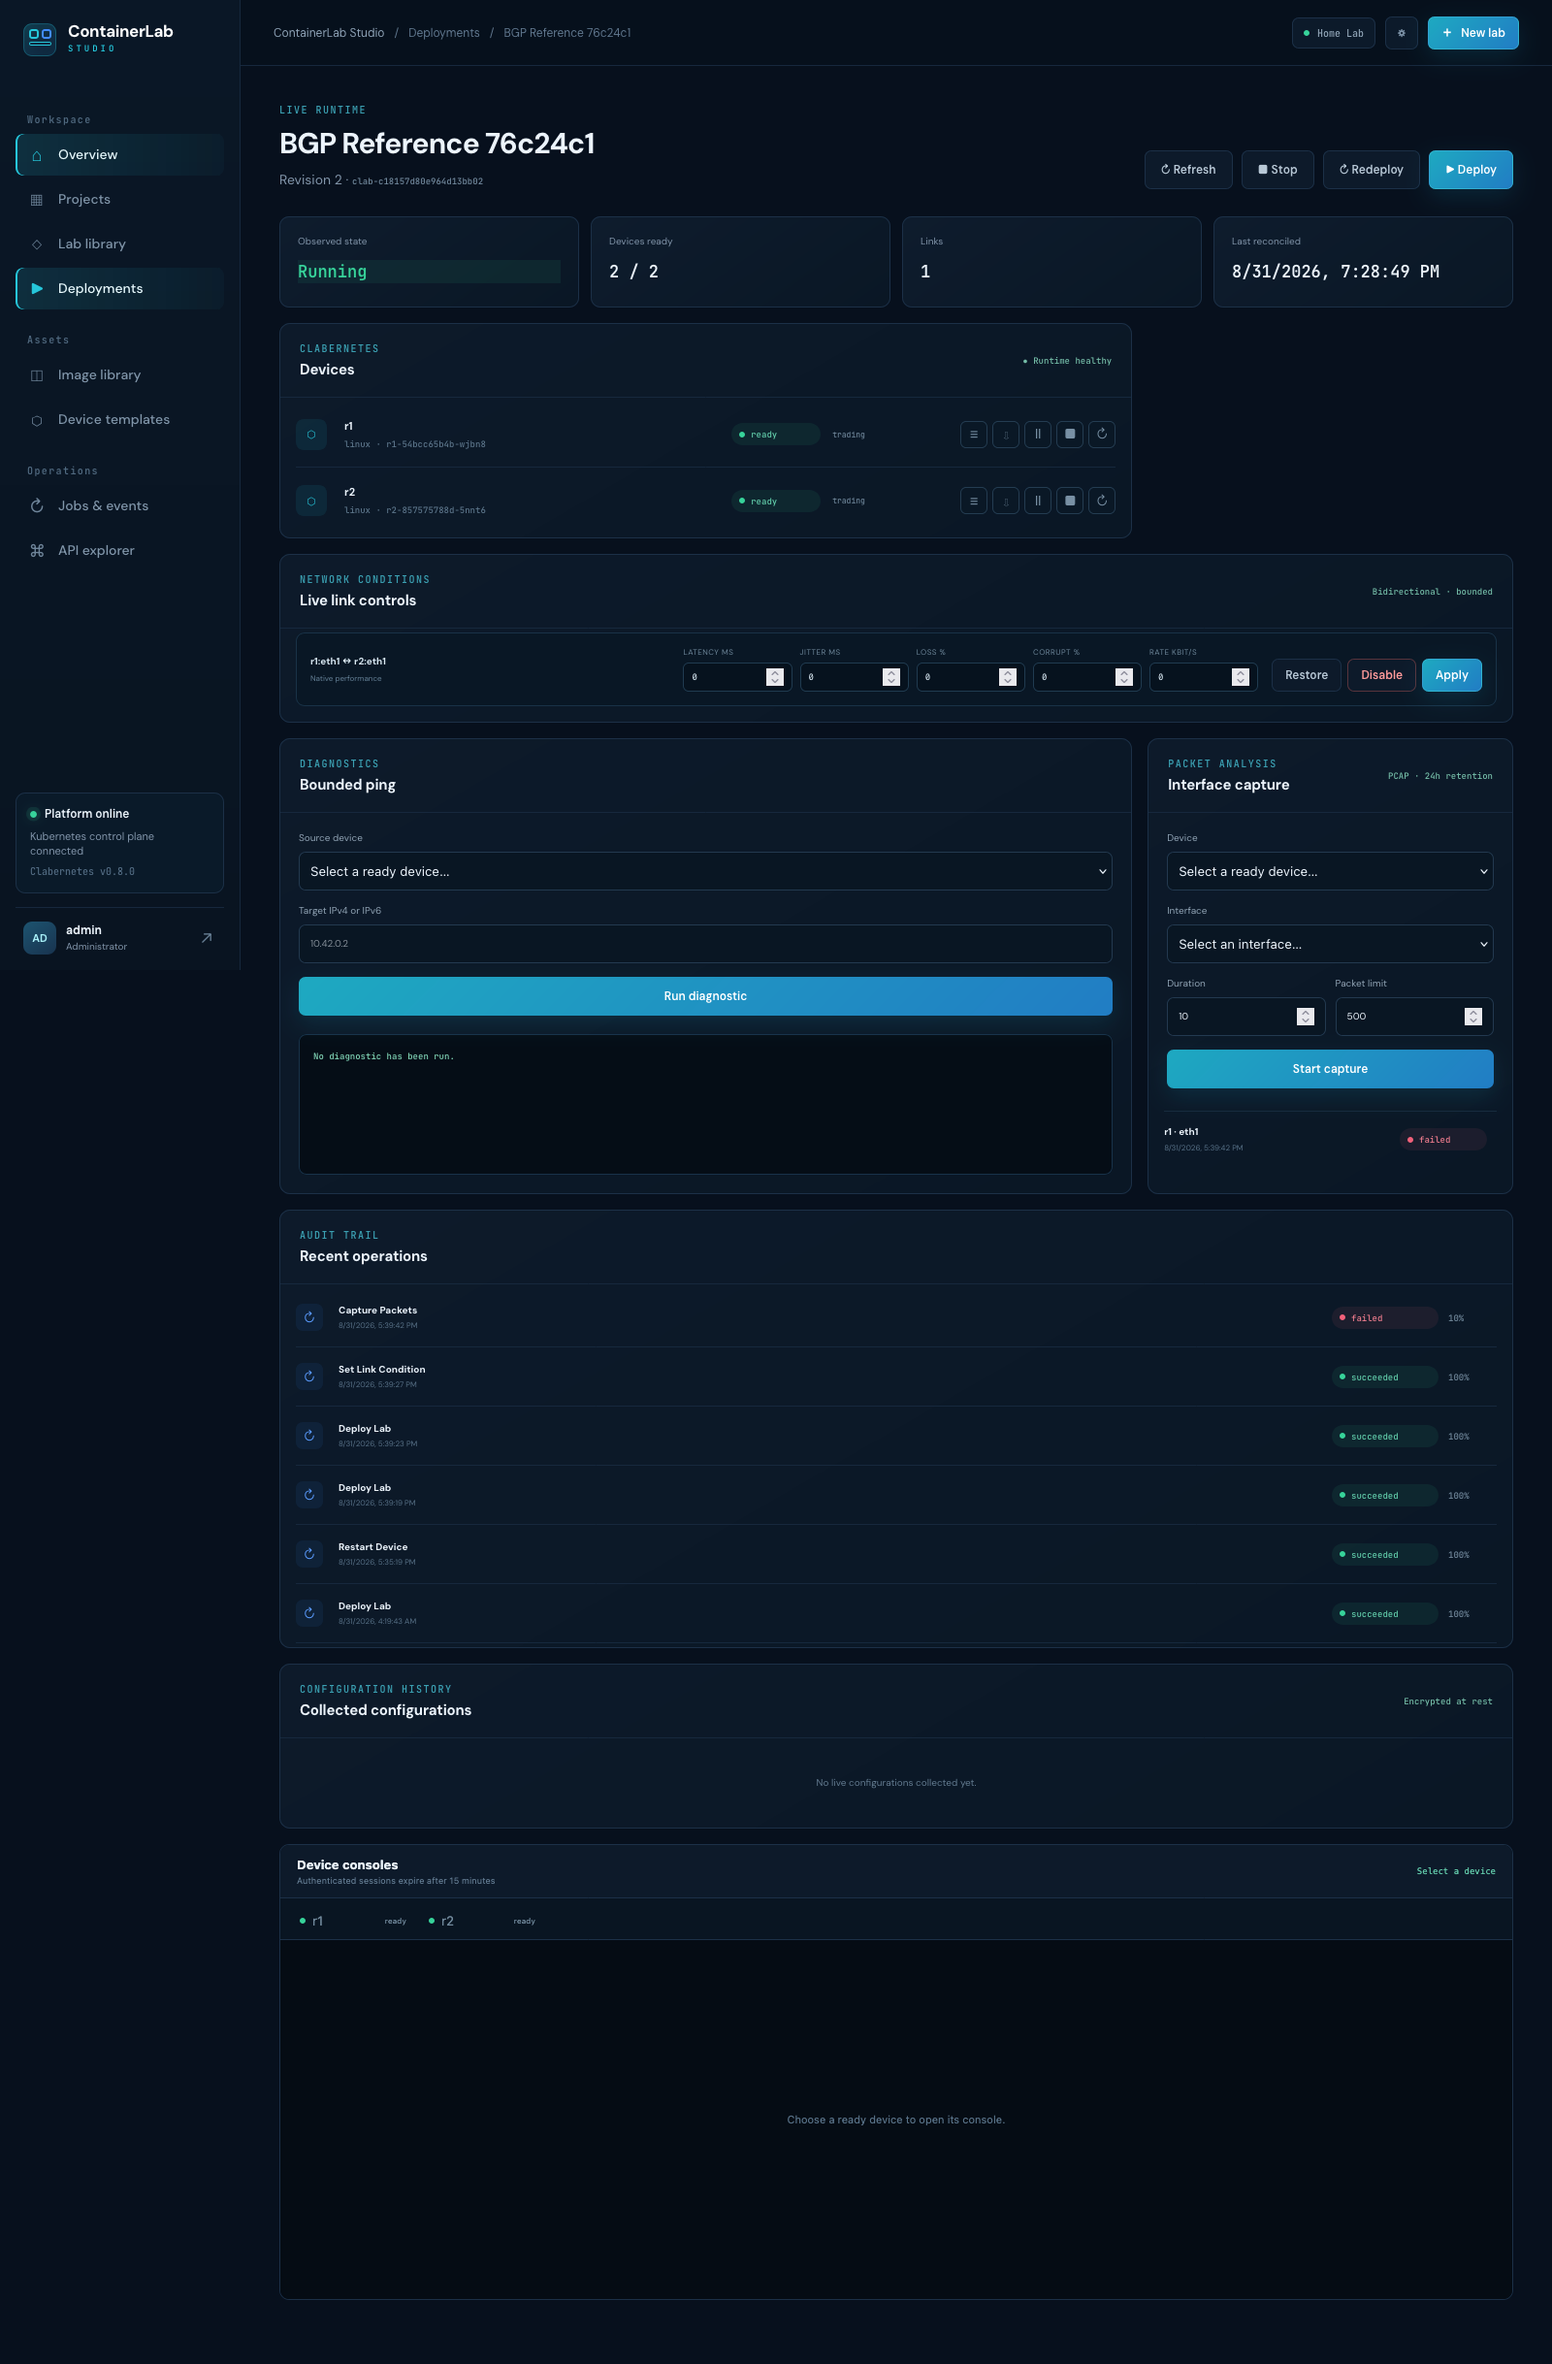
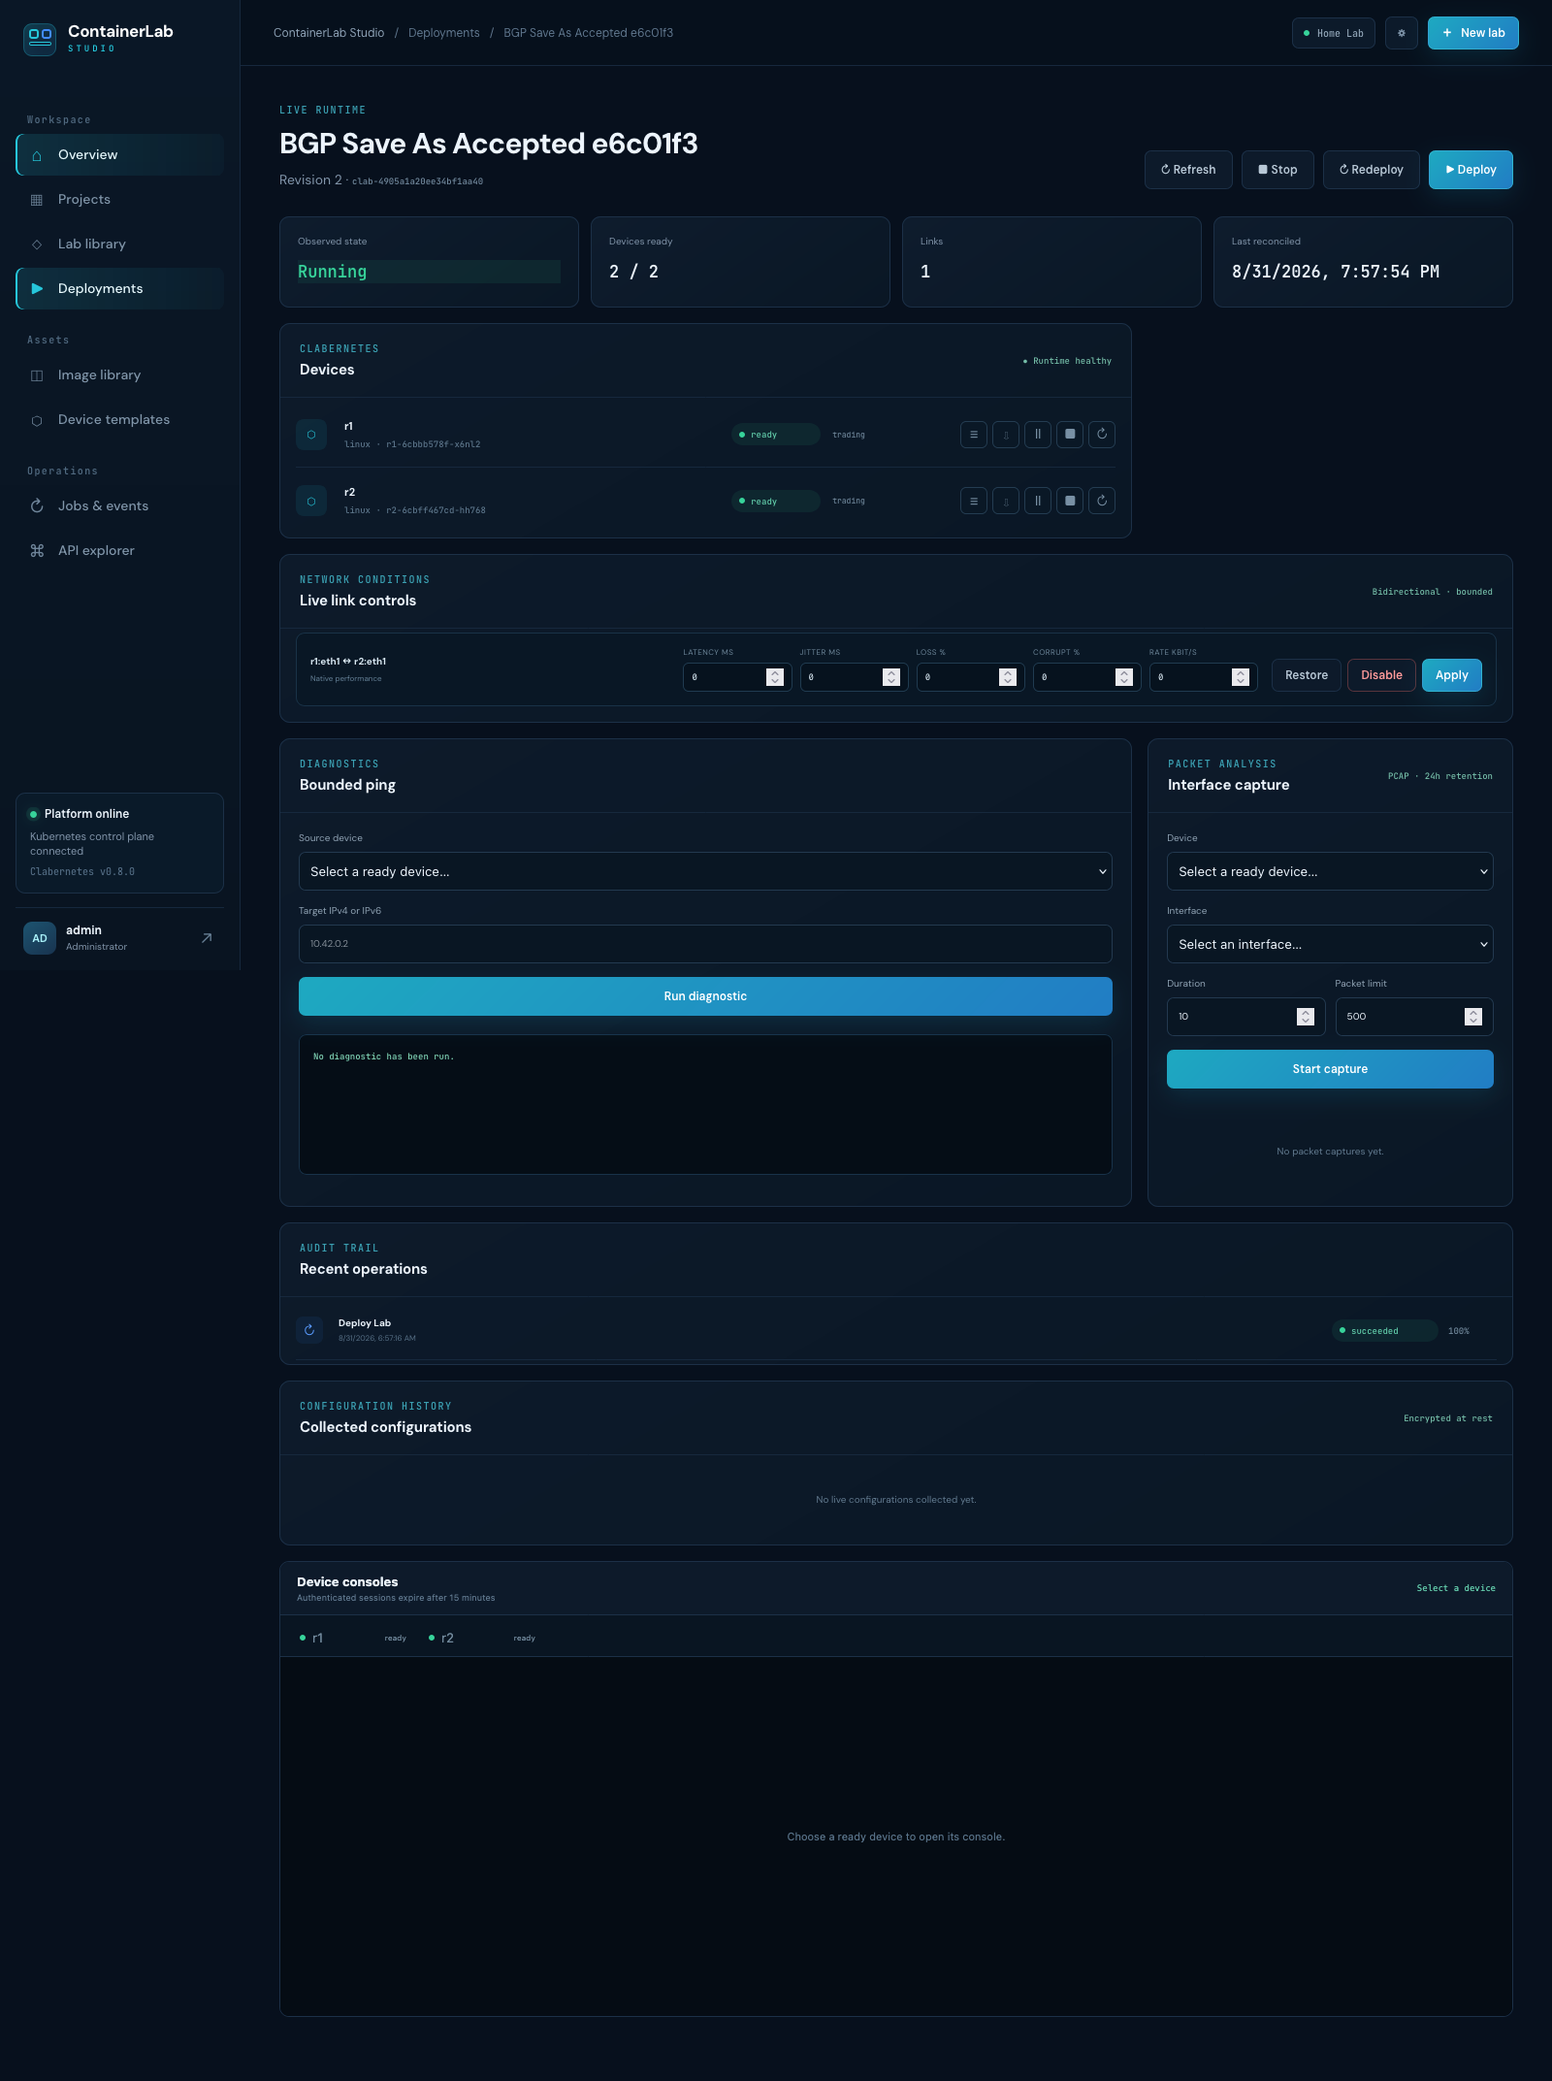
docs: add Firefox backup restore training capture

diff --git a/IMPLEMENTATION_STATUS.md b/IMPLEMENTATION_STATUS.md
@@ -30,7 +30,8 @@
 - Native self-service account and security page with profile/timezone management, normalized email, verified current-password changes, strengthened password validation, CSRF protection, session continuity, legacy-route safety, and content-free audit events.
 - Explicit GUI-only operator contract: topology Backup/Restore is labeled as a product-native bundle workflow, while Containerlab/Kubernetes YAML remains internal to the validated runtime adapter.
 - Bounded per-device appliance and Clabernetes launcher log inspection through audited worker jobs, with operator authorization, selectable 20-1000 line limits, 100 KB output caps, no-store polling, refresh, and copy controls.
-- A 26-screen, read-only Firefox training capture catalog covering projects, labs, visual topology design, images, deployment/device lifecycle, safe redeploy preview, runtime logs, link controls, diagnostics, packet capture, console, configuration history, templates, jobs, security, and API discovery.
+- Server-validated lab backup restore preview with bundle checksum, topology/configuration/template/image inventory, deployability issues, explicit impact confirmation, stale-draft protection, idempotent replay, immutable/running revision preservation, and audit events.
+- A 27-screen, read-only Firefox training capture catalog covering projects, labs, visual topology design, verified backup/restore, images, deployment/device lifecycle, safe redeploy preview, runtime logs, link controls, diagnostics, packet capture, console, configuration history, templates, jobs, security, and API discovery.
 
 ## Acceptance results
 
@@ -55,7 +56,7 @@
 | 17 | Cross-project isolation | PASS | Guessed UUID API test returns 404. |
 | 18 | Cleanup preserves unrelated resources | PASS | Only `containerlab` and owned PVs touched; `trading` namespace unchanged. |
 | 19 | Existing workloads unaffected | PASS | Trading workloads remained running during inspection/deployment. |
-| 20 | Backup/restore | NOT RUN | Commands supplied; destructive restore exercise not performed on live instance. |
+| 20 | Backup/restore | PASS | A 1,888-byte GUI-native backup was server-previewed and restored into an independent lab with two devices, one link, one configuration, and unchanged source state; a deployable BGP backup then replaced that draft under concurrency protection. |
 | 21 | Project collaboration lifecycle | PASS | Live owner assigned admin/editor/viewer roles; editor mutation returned 403; delegated admin add/change/remove returned 201/200/204; owner and viewer pages rendered the correct controls. |
 | 22 | Project resource governance | PASS | Live one-unit limits allowed the first lab and rejected excess labs, members, image reservations, and topology nodes with typed 409 conflicts; usage/UI/audit checks passed. |
 | 23 | Versioned startup configuration | PASS | FRR configs remained encrypted in PostgreSQL, materialized into deployment-scoped ConfigMaps, mounted into launchers, and applied to both ready devices. |
@@ -72,8 +73,9 @@
 | 34 | Packet-corruption impairment | PASS | The authenticated product API applied 0.5% corruption to a live two-router link, `tc netem` reported `corrupt 0.5%` on both launcher endpoints, and a second idempotent operation restored the persisted/runtime condition to 0%. |
 | 35 | Safe whole-lab redeploy | PASS | Firefox verified the read-only impact preview; an authenticated audited redeploy recreated a stopped two-device/one-link Alpine runtime from pinned revision 1, reached 2/2 ready and `running`, and a final stop restored its original stopped state. |
 | 36 | Device and launcher logs | PASS | Authenticated worker jobs collected 2,682 bytes of live FRR appliance startup output and 11,799 bytes of Clabernetes launcher output for the same router; both completed successfully through bounded, audited, no-store GUI contracts. |
+| 37 | Restored topology runtime | PASS | The independently restored two-router BGP backup reached 2/2 ready after audited node-local image repair; product diagnostics passed 3/3 with 0% loss in both directions, the test runtime was stopped, and the displaced capacity runtime was returned to running. |
 
-Automated tests: **99 passed**. Django checks and migration drift checks: **pass**. React TypeScript/Vite production build: **pass**. Firefox training capture: **26 live screens passed**. Helm lint/render: **pass**. Native runtime ping: **3 transmitted, 3 received, 0% loss, 0.445 ms average RTT**. Bidirectional 120 ms link condition: **240.563 ms average RTT**. Disabled link: **100% loss**. Restored qdiscs: **native `noqueue` on both endpoints**.
+Automated tests: **100 passed**. Django checks and migration drift checks: **pass**. React TypeScript/Vite production build: **pass**. Firefox training capture: **27 live screens passed**. Helm lint/render: **pass**. Native runtime ping: **3 transmitted, 3 received, 0% loss, 0.445 ms average RTT**. Bidirectional 120 ms link condition: **240.563 ms average RTT**. Disabled link: **100% loss**. Restored qdiscs: **native `noqueue` on both endpoints**.
 
 ## Known limitations
 

diff --git a/training/GALLERY.md b/training/GALLERY.md
@@ -157,3 +157,9 @@ Before replacing device compute, the operator reviews the pinned revision, devic
 ![Device runtime logs](26-device-runtime-logs.png)
 
 The operator opens the device inspector from a live device, switches between appliance and Clabernetes launcher sources, selects a bounded line count, refreshes, and copies the audited no-store result without using Kubernetes or Containerlab commands.
+
+## 27 — Verified backup restore preview
+
+![Backup restore preview](27-backup-restore-preview.png)
+
+After selecting a product-native backup, the server validates its format, checksum, templates, images, interfaces, and deployability without changing the lab. The operator reviews device, link, configuration, image, draft, published-revision, and active-deployment impact before explicitly confirming restore.
